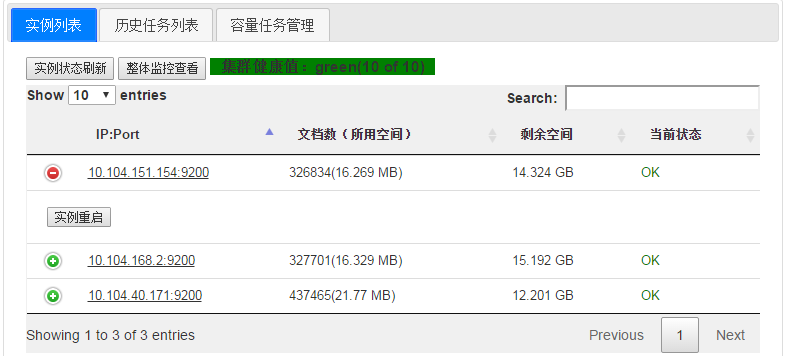
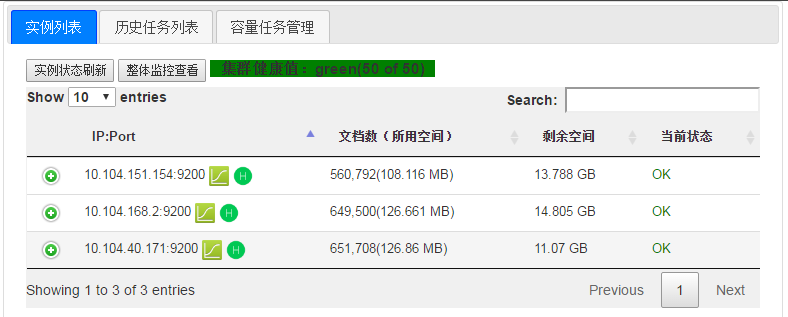
document updated

diff --git a/document/standalone/es_console_guide.md b/document/standalone/es_console_guide.md
@@ -78,16 +78,24 @@ docker ps -a
 
 ## 1.3 服务端口列表
 
-Elasticsearch管理平台开放了下述端口：
+Elasticsearch管理平台需要开放下述端口：
 
 | 服务端口 | 开放目的 |
 | --- | --- |
 | 8080 | 服务管理页面 |
+| 8081 | Nignx服务，用于Head插件展示及作为Elasticsearch Http API的反向代理 |
 | 9982 | 远程命令数据传输服务端口 |
 | 38002 | 监控服务业务上报端口 |
 | 38003 | 监控服务数据获取端口 |
 
-Elasticsearch实例业务机的开放端口使用默认端口9200和9300。
+Elasticsearch实例业务机需要开放下述端口：
+| 服务端口 | 开放目的 |
+| --- | --- |
+| 9200 | Elasticsearch Http API服务端口 |
+| 9300 | Elasticsearch Java API服务端口 |
+| 30150 | 日志查询端口 |
+| 44445 | 日志入库端口 |
+
 
 
 # 二、使用说明
@@ -112,6 +120,8 @@ Elasticsearch实例业务机的开放端口使用默认端口9200和9300。
 3.  缩容管理：集群去除一个/多个ip。
 
 ![](images/es_console_guide/image2.png)
+
+每个实例的IP:Port后有两个图标，点击分别展示IP的基础属性以及Elasticsearch的Head插件。
 
 点击加号可以对当前实例进行服务重启，适用于服务宕机后的恢复。
 

diff --git a/document/msec/readme.md b/document/msec/readme.md
@@ -9,6 +9,7 @@
 * [monitor_service_instruction.md](monitor_service_instruction.md) 介绍了集中化监控服务的使用说明
 
 ###开发者手册
+
 开发者手册介绍了开发框架的整体架构，以及开发者在开发服务框架时所需要关注的关键开发细节，包括如何进行业务初始化、远程调用API、MSEC集中化服务API、如何使用三方扩展等。
 
 * [C++开发者手册](cpp_dev_manual.md)
@@ -35,4 +36,5 @@
 * [Python性能测试报告](python_performance.md)
 
 ###其他文档
+
 * [docker_guide.md](docker_guide.md) 是一个快速的docker入门介绍
